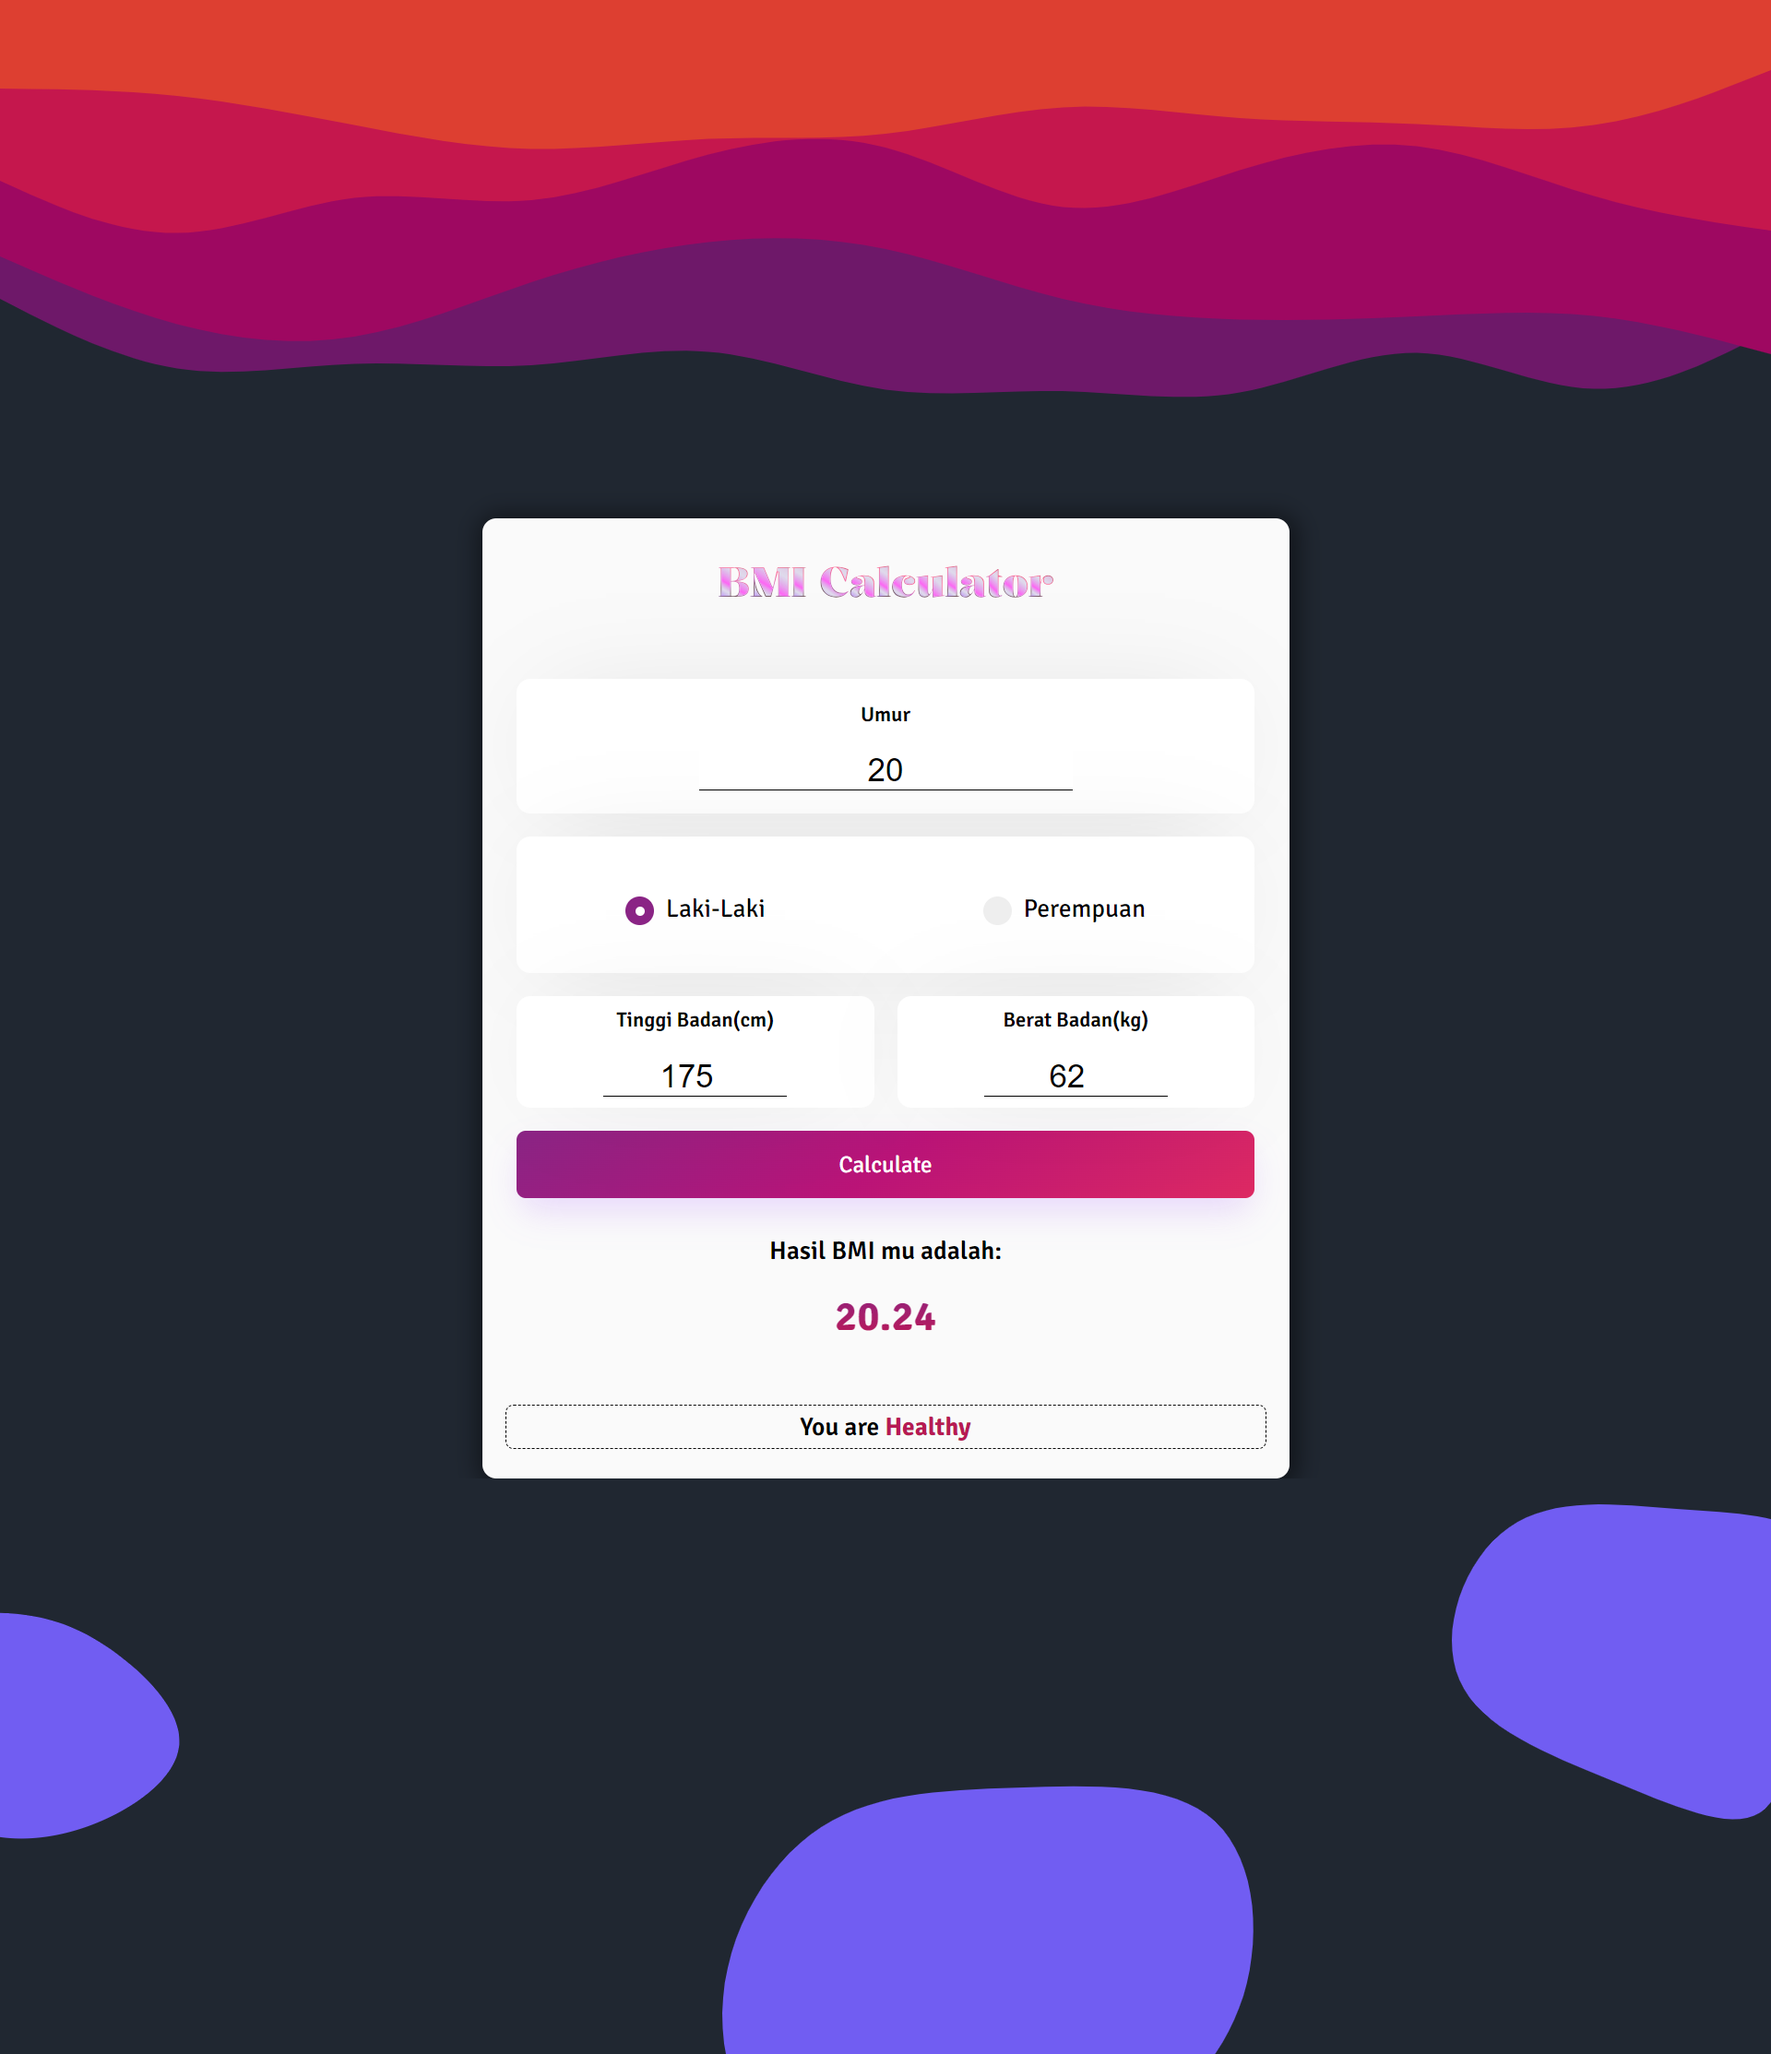
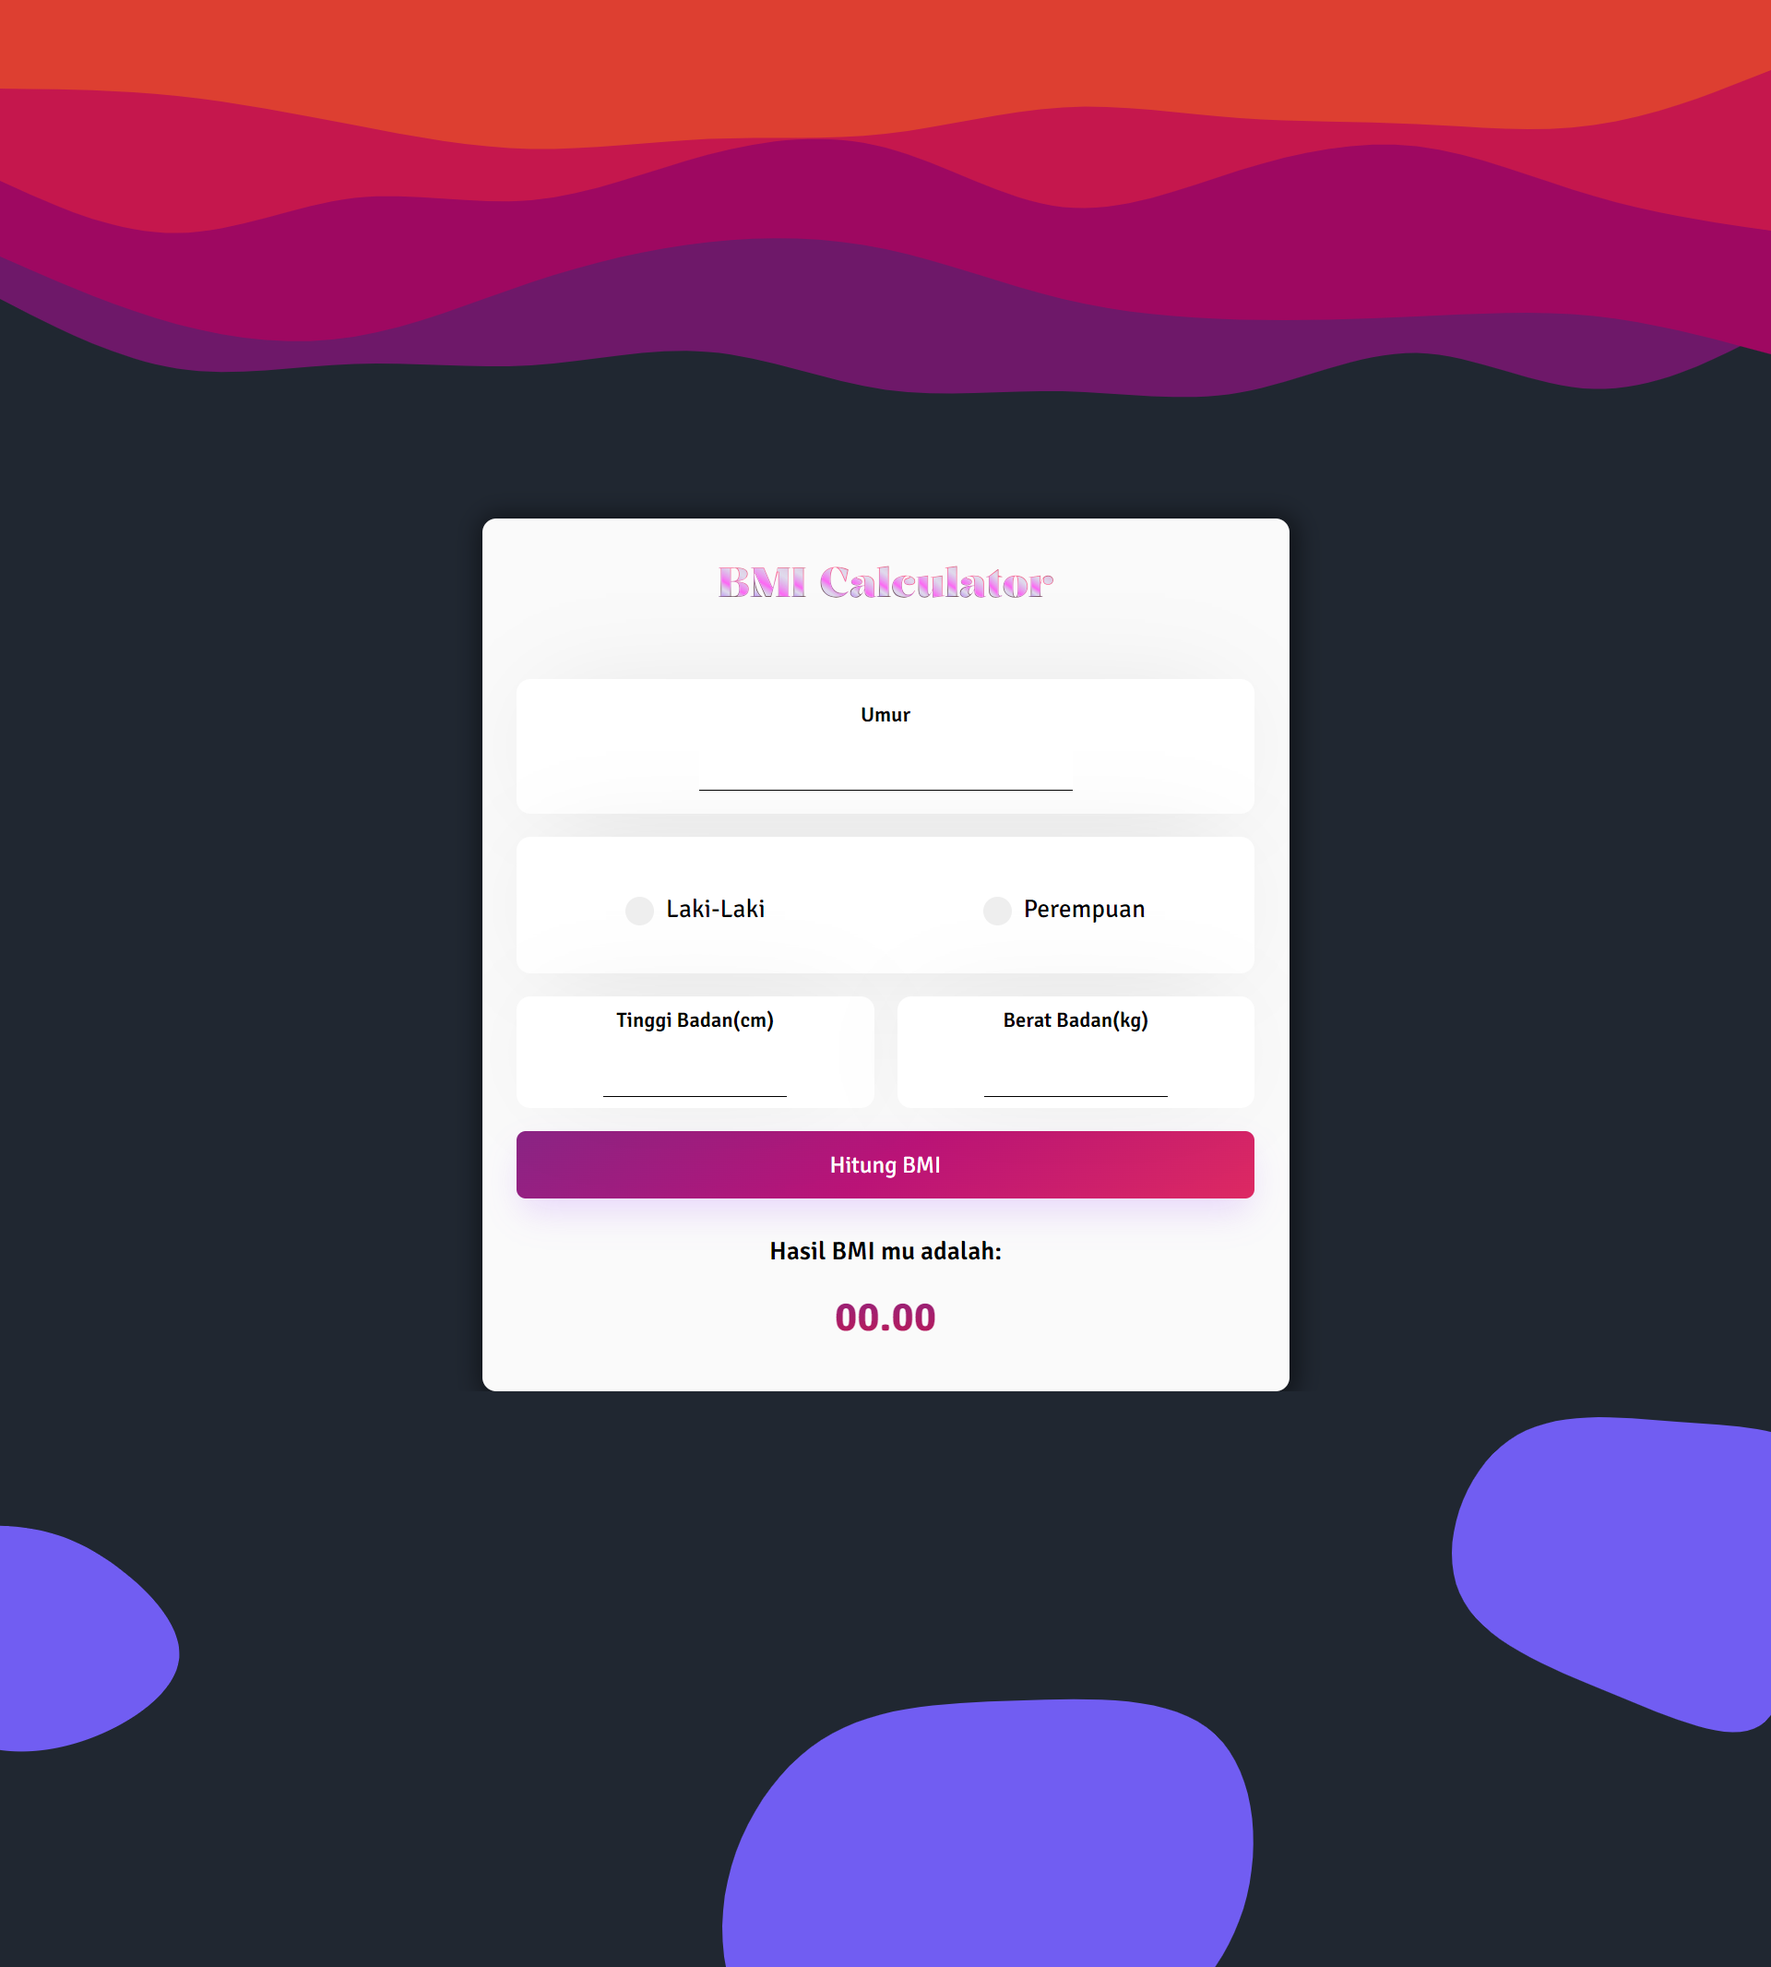
...

diff --git a/index.html b/index.html
@@ -64,7 +64,7 @@
             </div>
           </div>
 
-            <button class="calculate" id="submit" onclick="calculate();">Calculate</button>
+            <button class="calculate" id="submit" onclick="calculate();">Hitung BMI</button>
           </div>
           <div class="result">
             <p>Hasil BMI mu adalah:</p>
